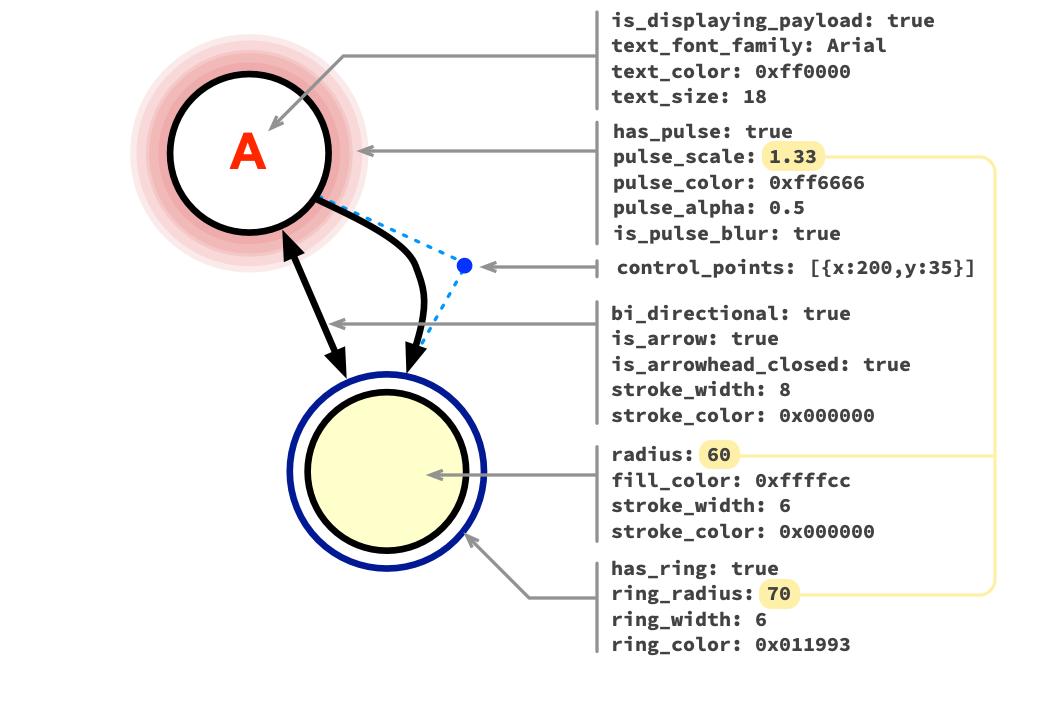
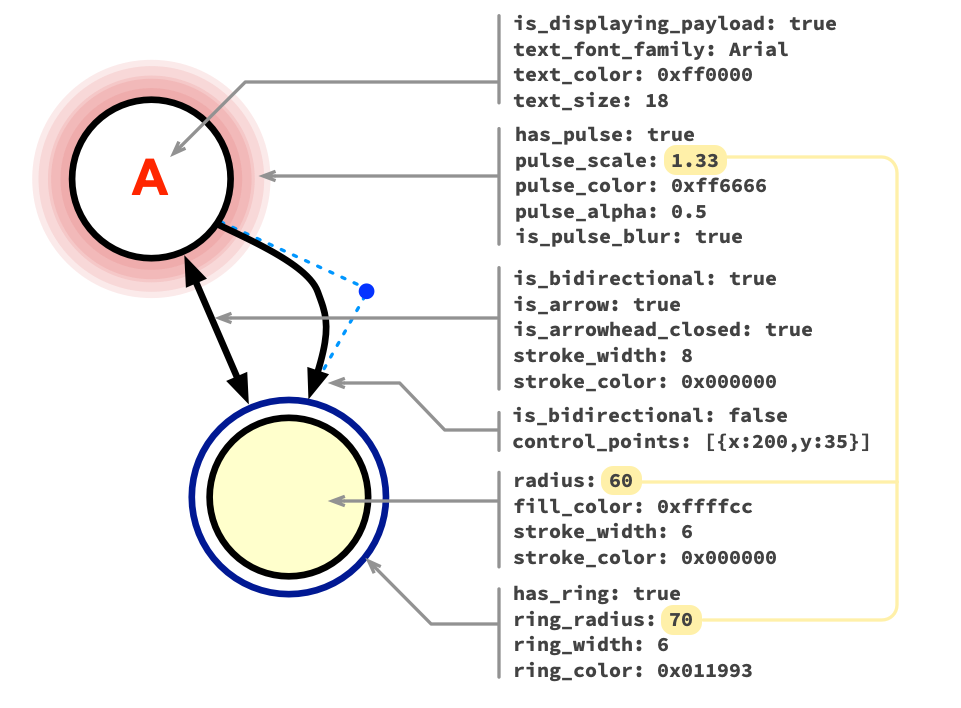
update settings diagram for clarity

Changed region(s): [[0.0312, 0.0, 0.9677, 0.9633]]

diff --git a/docs/settings.md b/docs/settings.md
@@ -69,7 +69,7 @@ but GraphFellow tries to be forgiving if you've used hyphens by mistake in your
 JSON (`background-color`) because frankly life is too short to waste time
 spotting _that_ particular bug.
 
-Here's an example of how some config settings relate to vertices and edges.
+Here's an example showing how some config settings apply to vertices and edges.
 Note how the `vertices` settings for `pulse_scale`, `radius` and `ring_radius`
 are related.
 
